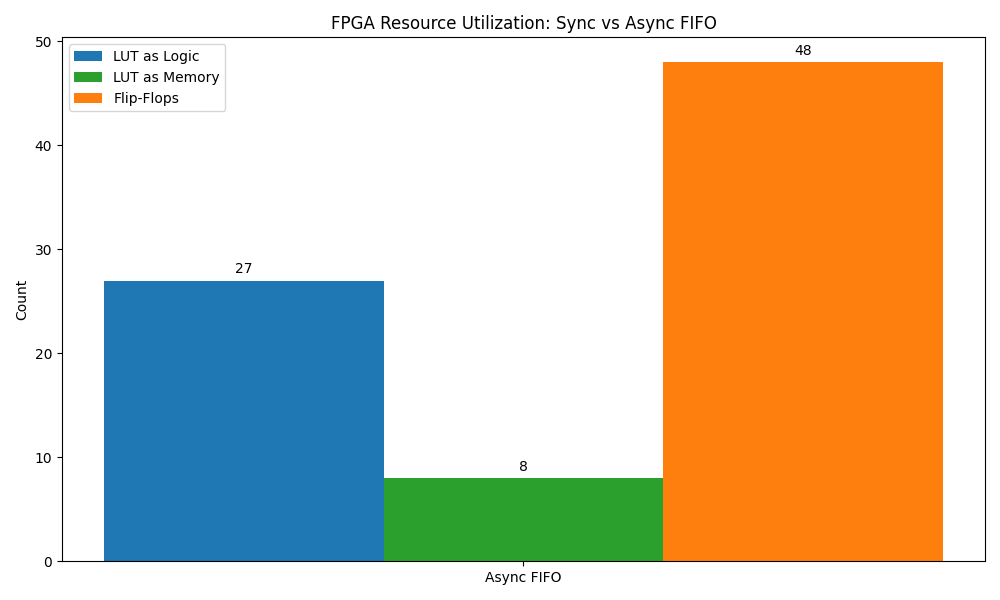
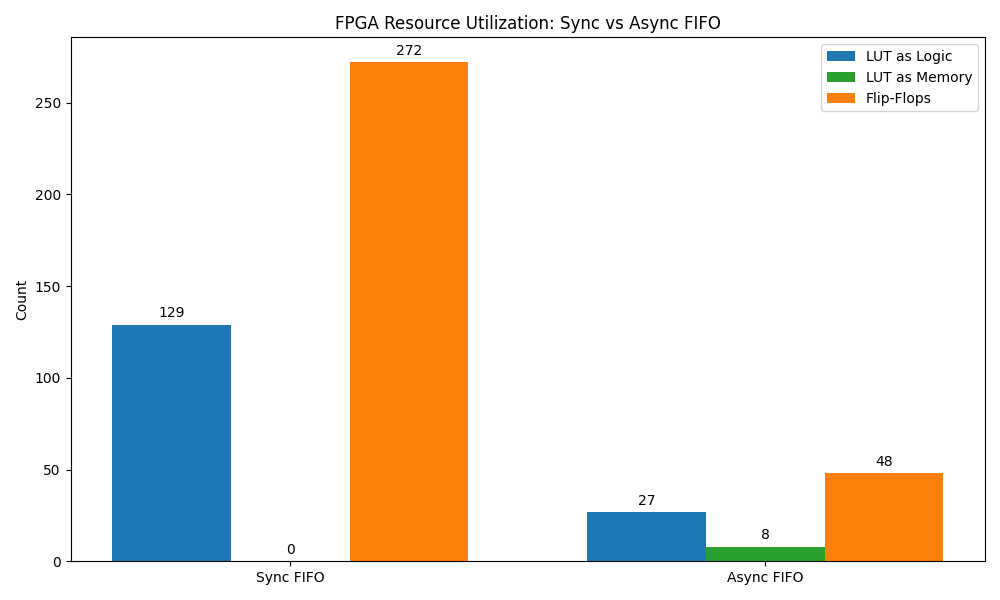
ready to merge, updated readme

diff --git a/README.md b/README.md
@@ -1,56 +1,154 @@
-# Synchronous FIFO Design
+# Hardware FIFO Design
 
-A parameterizable, synchronous First-In-First-Out (FIFO) memory buffer designed in Verilog. This module safely handles data buffering between a producer and a consumer operating on the same clock domain, featuring robust error detection for overflow and underflow conditions.
+SystemVerilog implementations of synchronous and asynchronous FIFOs with automated verification infrastructure. Designed for FPGA deployment on Xilinx Artix-7.
 
-## Features
-* **Fully Synchronous:** Single clock domain (`clk`).
-* **Parameterization:** Easy config. of Data Width and FIFO Depth via parameters.
-* **Safety Flags:** Includes standard `full` and `empty` status indicators.
-* **Sticky Error Handling:** "Sticky" `overflow` and `underflow` flags that latch High upon error and remain asserted until reset. This ensures that even transient errors are captured and not missed by the controlling logic.
-* **Reset Logic:** Asynchronous active-high reset.
+## Overview
+
+This project implements two FIFO architectures:
+
+| Feature | Sync FIFO | Async FIFO |
+|---------|-----------|------------|
+| Clock Domains | Single | Dual (CDC) |
+| Pointer Encoding | Binary | Gray Code |
+| Synchronization | None | 2-FF Synchronizers |
+| Use Case | Same-clock buffering | Cross-domain data transfer |
+
 
 ## Project Structure
-* **`rtl/fifo_sync_top.v`**: The top-level design file containing the control logic, memory array, pointers, and sticky error flag generation.
-* **`tb/tb_fifo_sync.v`**: The self-checking testbench that verifies normal operation, boundary conditions, and error injection.
-* **`docs/`**: Contains simulation waveforms and verification evidence.
+```
+HardwareFifoDesign/
+├── rtl/                    # Synthesizable RTL
+│   ├── fifo_sync.sv        # Synchronous FIFO
+│   └── fifo_async.sv       # Asynchronous FIFO with Gray code CDC
+├── tb/                     # Testbenches
+│   └── tb_fifo_unified.sv  # Unified testbench for both designs
+├── sim/                    # Verification infrastructure
+│   ├── run_compare.py      # Main automation script
+│   ├── scoreboard.py       # Golden model comparison
+│   ├── reporter.py         # Report generation
+│   ├── tcl/                # Vivado synthesis scripts
+│   └── tests/              # Stimulus generation
+├── output/                 # Generated reports
+│   ├── reports/
+│   └── schematics/
+├── docs/                   # Documentation images
+└── scripts/                # Utility scripts
+```
 
-## Interface
+## Quick Start
 
-| Port Name | Direction | Width | Description |
-| :--- | :--- | :--- | :--- |
-| `clk` | Input | 1-bit | System Clock. |
-| `rst` | Input | 1-bit | Active High Reset. Clears pointers and flags. |
-| `wr_en` | Input | 1-bit | Write Enable. Writes `data_in` on rising edge if not full. |
-| `rd_en` | Input | 1-bit | Read Enable. Reads to `data_out` on rising edge if not empty. |
-| `data_in` | Input | `[DATA_WIDTH-1:0]` | Data input bus. |
-| `data_out` | Output | `[DATA_WIDTH-1:0]` | Data output bus. |
-| `full` | Output | 1-bit | Asserted when FIFO memory is full. |
-| `empty` | Output | 1-bit | Asserted when FIFO memory is empty. |
-| `overflow` | Output | 1-bit | **Sticky Flag.** Goes High if a write is attempted while Full. |
-| `underflow`| Output | 1-bit | **Sticky Flag.** Goes High if a read is attempted while Empty. |
+### Prerequisites
 
-## ⚙ Parameters (Default)
-* **`DATA_WIDTH`**: `8` (8-bit data)
-* **`ADDR_WIDTH`**: `5` (Defines depth as $2^5 = 32$ words)
+- Vivado 2025.2 (or compatible)
+- Python 3.8+
+- matplotlib (`pip install matplotlib`)
 
-### Test Cases Verified:
-1.  **Normal Operation:** Writing data until Full, then reading until Empty.
-2.  **FIFO Full:** Verifies `full` flag assertion at correct depth.
-3.  **FIFO Empty:** Verifies `empty` flag assertion when pointers match.
-4.  **Sticky Overflow:** Attempting to write to a full FIFO triggers the error flag, which remains High even after the write attempt ends.
-5.  **Sticky Underflow:** Attempting to read from an empty FIFO triggers the error flag, which remains High until reset.
+### Run Verification
+```bash
+cd sim
 
-## Simulation Results
-The following waveform demonstrates the "sticky" behavior of the error flags. Note that `overflow` (triggered at ~600ns) and `underflow` (triggered at ~1350ns) latch High and remain asserted, proving the robust error logic.
+# Full verification suite
+python run_compare.py
 
-![FIFO Verification Waveform](docs/fifo_sync_sim_waveform.png)
+# With schematic generation
+python run_compare.py --schematic
 
-## How to Run in Vivado
-1.  Add `rtl/fifo_sync_top.v` and `tb/tb_fifo_sync.v` to your project sources.
-2.  Set `tb_fifo_sync` as the **Top Module** in Simulation Settings.
-3.  Run **Behavioral Simulation**.
+# Single design only
+python run_compare.py -d sync
+python run_compare.py -d async
 
-## Future Work & Next Steps
-* **Synthesis & Timing:** Run Vivado Synthesis to analyze resource utilization (LUT/FF count) and verify timing constraints.
-* **Asynchronous Implementation:** Adapt the design to use Gray Code pointers for safe data transfer between different clock domains (CDC).
-* **AXI4-Stream Interface:** Wrap the core logic in an AXI wrapper for standard integration with Xilinx IP blocks (Zynq/MicroBlaze).
+# Open waveform viewer
+python run_compare.py -d sync --waveform
+
+# Interactive Vivado GUI
+python run_compare.py --synth-only --gui
+```
+
+### Command Line Options
+
+| Option | Description |
+|--------|-------------|
+| `--schematic`, `-s` | Generate schematic PDFs |
+| `--waveform`, `-w` | Open waveform viewer after simulation |
+| `--gui`, `-g` | Open Vivado GUI after synthesis |
+| `--design`, `-d` | Select design: `sync`, `async`, or `all` |
+| `--sim-only` | Run simulation only |
+| `--synth-only` | Run synthesis only |
+
+## Verification Results
+
+Both designs pass functional verification with 100 transactions (write bursts followed by read bursts).
+
+### Resource Utilization (Artix-7 xc7a35t)
+
+| Design | LUT Logic | LUT Memory | Flip-Flops | WNS (ns) | WHS (ns) |
+|--------|-----------|------------|------------|----------|----------|
+| Sync FIFO | 129 | 0 | 272 | 6.24 | 0.27 |
+| Async FIFO | 27 | 8 | 48 | 6.79 | 0.22 |
+
+![Usage Comparison](/output/reports/comparison_plot.png)
+
+## Design Details
+
+### Synchronous FIFO
+
+- **Architecture:** Counter-based full/empty decision
+- **Output:** First-Word Fall-Through (FWFT)
+- **Memory:** Infered as distributed RAM
+
+### Asynchronous FIFO
+
+- **Architecture:** Gray code pointers with 2-FF synchronizers
+- **CDC Safety:** Single-bit changes between clock domains
+- **Full Detection:** Compare write gray pointer with synchronized read pointer
+- **Empty Detection:** Compare read gray pointer with synchronized write pointer
+
+## Waveforms
+
+### Synchronous FIFO
+
+Shows basic FIFO operation with write burst followed by a read burst:
+
+![Sync FIFO Waveform](output/waveforms/sync_fifo_waveform.png)
+
+Observations:
+- `empty` deasserts after first write
+- `data_out` updates combinationally (FWFT)
+- Pointers increment on valid transactions
+
+### Asynchronous FIFO
+
+Shows CDC behavior
+
+![Async FIFO Waveform](output/waveforms/async_fifo_waveform.png)
+
+Observations:
+- `wclk` (100MHz) and `rclk` (40MHz) are independent
+- gray code pointers only change one bit at a time
+- synchronized pointers (`wq2_ptr`, `rq2_wptr`) lag
+
+### Gray Code Conversion
+```systemverilog
+// Binary 2 Gray
+assign gray_next = (bin_next >> 1) ^ bin_next;
+
+// Ex.
+// binary 3 (0011) -> gray 3 (0010)
+// binary 4 (0100) -> gray 4 (0110)
+```
+
+### Full Flag Detection (Gray Code)
+```systemverilog
+// full when MSB and MSB-1 differ, rest match
+assign wfull_val = (wgray_next == {~wq2_rptr[ADDR_WIDTH:ADDR_WIDTH-1],
+                                    wq2_rptr[ADDR_WIDTH-2:0]});
+```
+
+### 2-FF Synchronizer
+```systemverilog
+always_ff @(posedge rclk or negedge rrst_n) begin
+    if (~rrst_n) {rq2_wptr, rq1_wptr} <= '0;
+    else         {rq2_wptr, rq1_wptr} <= {rq1_wptr, wptr};
+end
+```
+

diff --git a/output/reports/REPORT.md b/output/reports/REPORT.md
@@ -4,6 +4,7 @@
 
 | Design | Status |
 | :--- | :--- |
+| Sync FIFO | PASS |
 | Async FIFO | PASS |
 
 ## 2. Resource Utilization
@@ -12,6 +13,7 @@
 
 | Design | LUT Logic | LUT Memory | Flip-Flops | WNS (ns) | WHS (ns) |
 | :--- | :---: | :---: | :---: | :---: | :---: |
+| Sync FIFO | 129 | 0 | 272 | 6.242 | 0.274 |
 | Async FIFO | 27 | 8 | 48 | 6.787 | 0.216 |
 
 ## 3. Analysis
